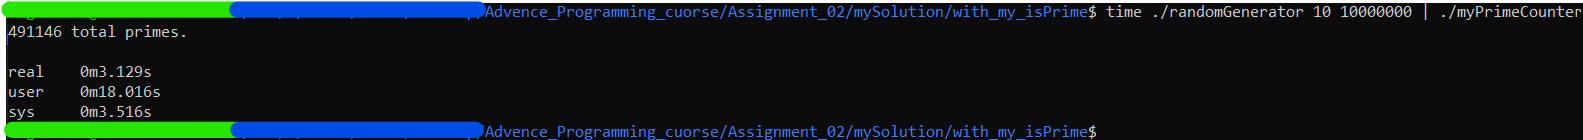
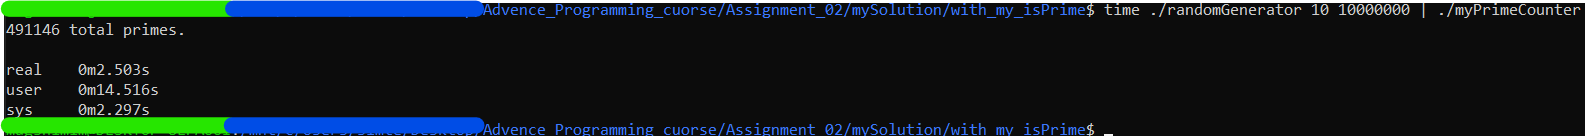
check memory with massif

diff --git a/Assignment_02/README.md b/Assignment_02/README.md
@@ -15,13 +15,16 @@ time ./randomGenerator 10 10000000 | ./primeCounter
 ![](00%20-%20original%20counter%20results.png)
 
 ```
-./randomGenerator 10 10000000 | /usr/bin/time -v ./primeCounter
+./randomGenerator 10 10000000 | valgrind --tool=massif --massif-out-file=massif.out ./primeCounter
+```
+```
+ms_print massif.out
 ```
 ![](./01%20-%20original%20counter%20results.png)
 
 In conclusion:
 * time for 10M numbers: `0m43.341s`
-* memory for 10M numbers: `696KB`
+* memory for 10M numbers: `4.516KB`
 
 
 ## Solution with original `isPrime` function
@@ -36,13 +39,17 @@ time ./randomGenerator 10 10000000 | ./myPrimeCounter
 ![](./02%20-%20my%20counter%20with%20original%20isPrime%20results.png)
 
 ```
-./randomGenerator 10 10000000 | /usr/bin/time -v ./myPrimeCounter
+./randomGenerator 10 10000000 | valgrind --tool=massif --massif-out-file=massif.out ./myPrimeCounter
 ```
+```
+ms_print massif.out
+```
+
 ![](./03%20-%20my%20counter%20with%20original%20isPrime%20results.png)
 
 In conclusion:
-* time for 10M numbers: `0m12.501s`
-* memory for 10M numbers: `832KB`
+* time for 10M numbers: `0m10.203s`
+* memory for 10M numbers: `6.266KB`
 
 ## Solutions with my `isPrime` function
 Go to the [with_my_isPrime](./mySolution/with_my_isPrime/) folder and run the following commands:
@@ -56,10 +63,13 @@ time ./randomGenerator 10 10000000 | ./myPrimeCounter
 ![](./04%20-%20my%20counter%20with%20my%20isPrime%20results.png)
 
 ```
-./randomGenerator 10 10000000 | /usr/bin/time -v ./myPrimeCounter
+./randomGenerator 10 10000000 | valgrind --tool=massif --massif-out-file=massif.out ./myPrimeCounter
+```
+```
+ms_print massif.out
 ```
 ![](./05%20-%20my%20counter%20with%20my%20isPrime%20results.png)
 
 In conclusion:
-* time for 10M numbers: `0m3.129s`
-* memory for 10M numbers: `832KB`
+* time for 10M numbers: `0m2.503s`
+* memory for 10M numbers: `6.266KB`
